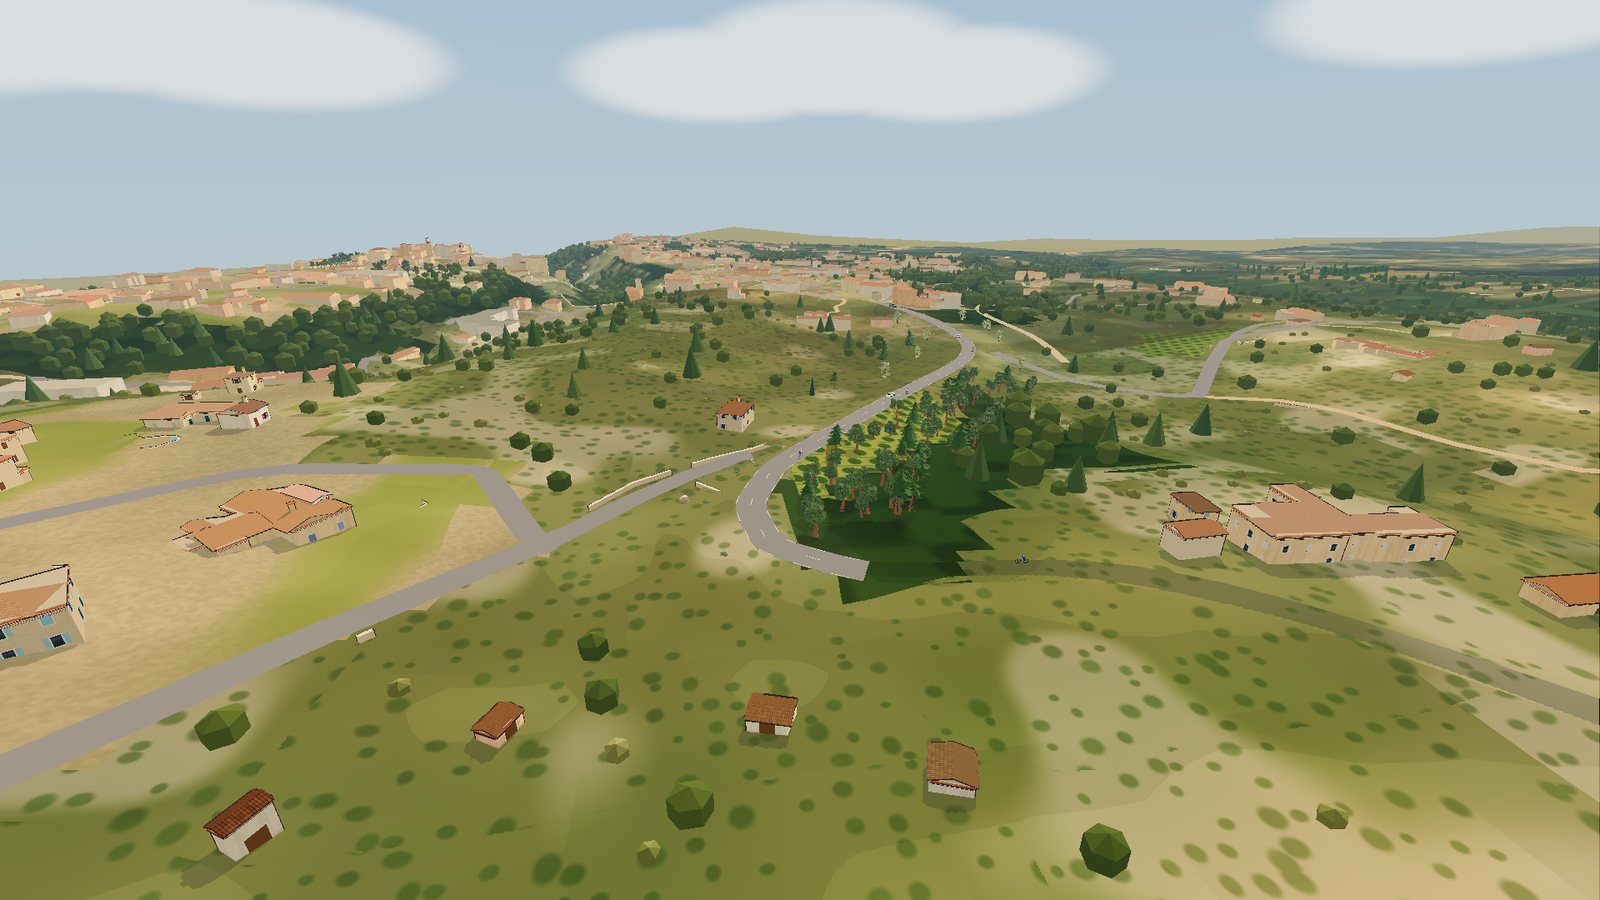
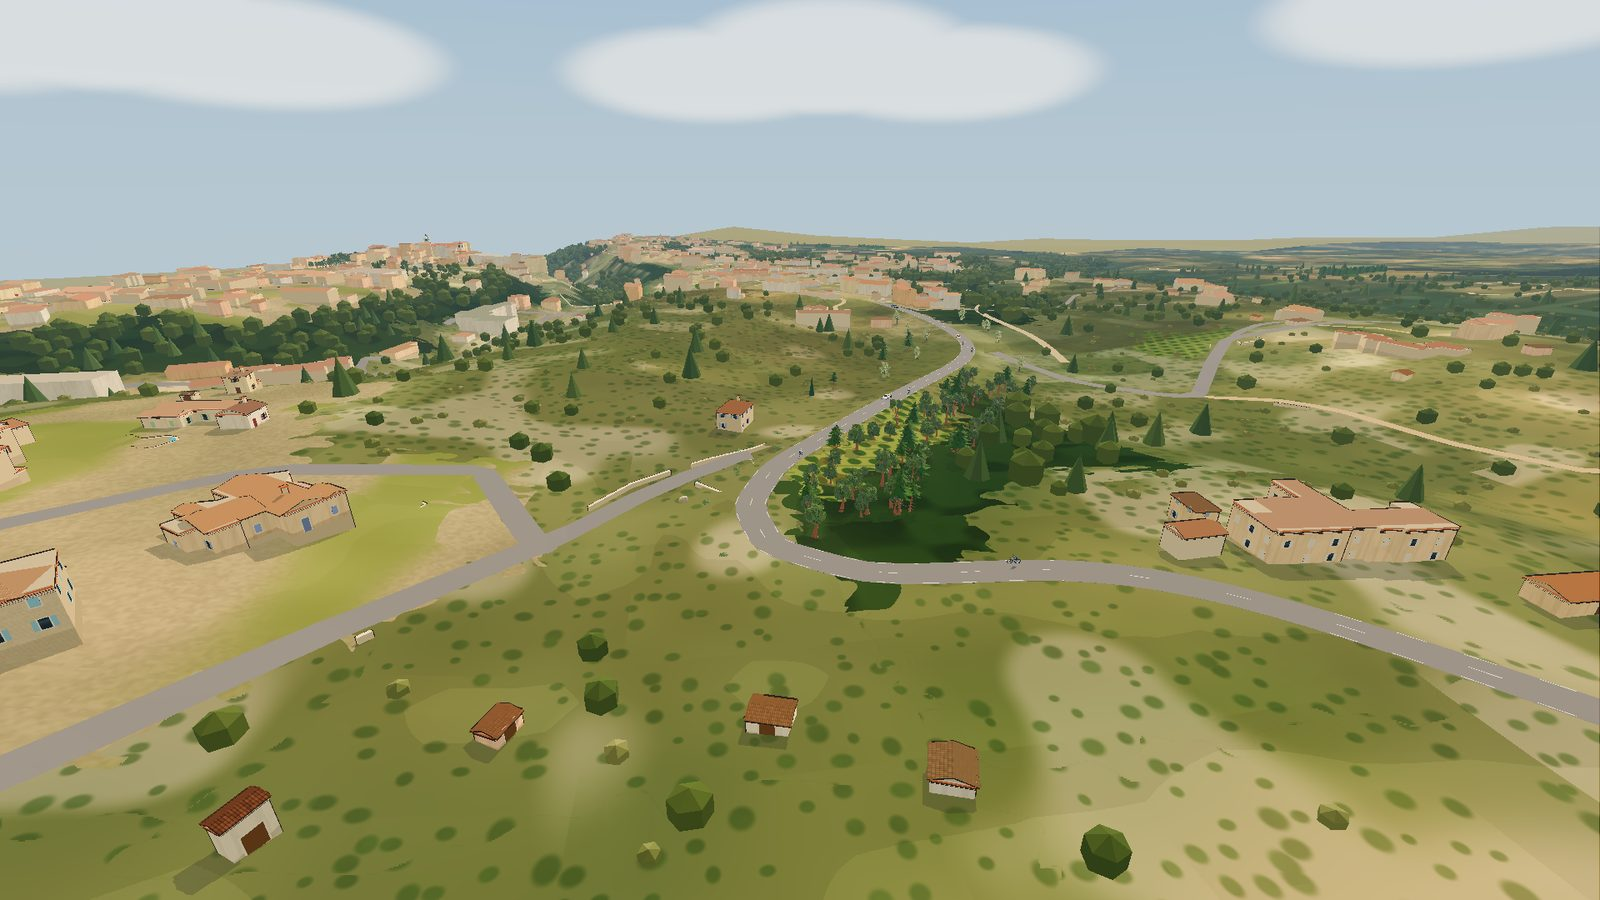
Image « Gordes vu d'en haut » refaite (maisons posées sur la pente, route continue)

diff --git a/en.html b/en.html
@@ -142,7 +142,7 @@
     </div>
 
     <div class="feature">
-      <img src="img/gordes_vue.jpg" alt="Gordes and the scrubland of the Monts de Vaucluse seen from above">
+      <img src="img/gordes_vue.jpg?v=2" alt="Gordes and the scrubland of the Monts de Vaucluse seen from above">
       <div>
         <h3>Landscapes you will recognise</h3>
         <p>Holm oaks and pines on the hillsides, the Nesque gorges carved into the cliffs, the vineyards of the Dentelles, Gordes perched on its rock: the landscape is the one you know, right down to the white road markings.</p>

diff --git a/index.html b/index.html
@@ -142,7 +142,7 @@
     </div>
 
     <div class="feature">
-      <img src="img/gordes_vue.jpg" alt="Gordes et la garrigue des monts de Vaucluse vus d'en haut">
+      <img src="img/gordes_vue.jpg?v=2" alt="Gordes et la garrigue des monts de Vaucluse vus d'en haut">
       <div>
         <h3>Des paysages que vous reconnaîtrez</h3>
         <p>Garrigue de chênes verts et de pins sur les versants, gorges de la Nesque en corniche, vignes des Dentelles, Gordes perché sur son rocher : le paysage est celui que vous connaissez, jusqu'au marquage blanc de la route.</p>
